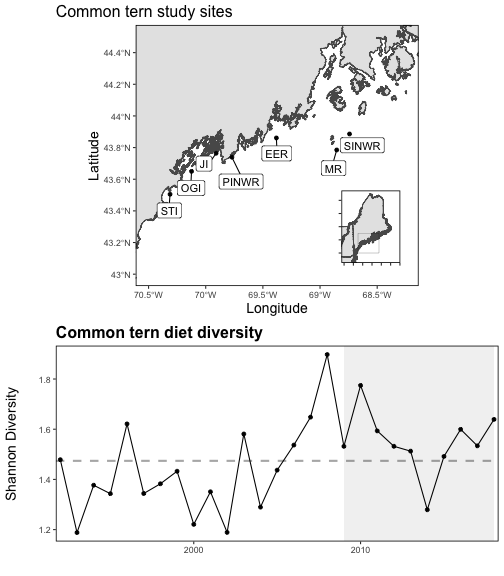
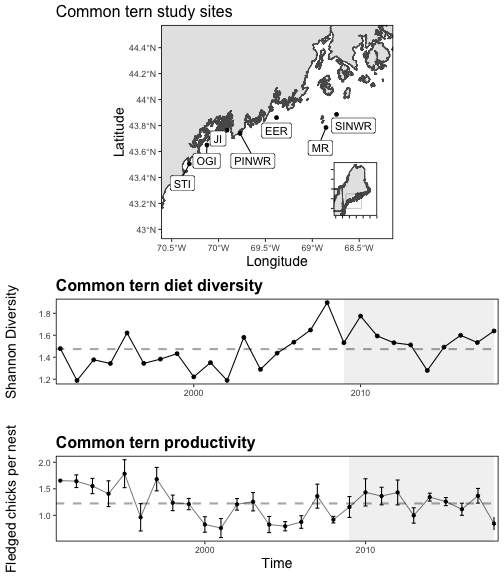
added tern productivity

diff --git a/State of the Ecosystem/EBFM Seminars/Audubon Seminar 2019-05-22/test.html b/State of the Ecosystem/EBFM Seminars/Audubon Seminar 2019-05-22/test.html
@@ -22,48 +22,17 @@ class: top, left
 
 
 
-## Zooplankton abundance and North Atlantic Right Whale range shifts
-
-&lt;img src="20190522_Audubon_Hardison_images/record-et-al.png" width="100%" style="display: block; margin: auto;" /&gt;
-
-*Record et al. 2019* examines the role of warming deepwater in western Gulf of Maine on *C. finmarchicus* and North Atlantic right whale
-
-**North Atlantic right whale distributions affected by climate driven changes in *C. finmarchicus* abundance in western Gulf of Maine**
-
----
-## Zooplankton abundance and North Atlantic Right Whale range shifts
+## Implications for protected species: Common tern diet
 
 .pull-left[
-**Western GOM**
-* Recent *C. finmarchicus* abundance in W. GOM has been highest ever in recent years
-  * Why? *C. finmarchicus* supplied by highly productive Maine Coastal Current can reproduce rapidly and mediate effects of warming.
-  * NARW + *C. finmarchicus* conditions remain favorable in W. GOM
+* Warmer waters affect vertical distribution of prey species
+  * Results in more generalist diet choices
+  
+* High diet diversity in past decade may be the result of decreases in preferred prey type (hake, sandlance)
+  * Butterfish appear in diet in warm years, are difficult to digest; may cause starvation
 ]
-
 .pull-right[
-&lt;img src="20190522_Audubon_Hardison_images/record-et-al-fig.png" width="100%" style="display: block; margin: auto;" /&gt;
-.image-cap[
-Significant abundance changes in *Calanus* shown in blue (negative) and red (positive). ([Record et al. 2019](https://cloudup.com/iFB8decQWOs))
-  ]
-]
-
-
----
-## Zooplankton abundance and North Atlantic Right Whale range shifts
-
-.pull-left[
-**Eastern GOM**
-* Deepwater warming contributes to high mortality of dormant copepods
-* More Gulf Stream influence in Gulf means less supply of copepods into GOM
-
-**The result? NARWs favor western GOM and Canadian waters for foraging.**
-]
-
-.pull-right[
-&lt;img src="20190522_Audubon_Hardison_images/record-et-al-fig.png" width="100%" style="display: block; margin: auto;" /&gt;
-.image-cap[
-Significant abundance changes in *Calanus* shown in blue (negative) and red (positive). ([Record et al. 2019](https://cloudup.com/iFB8decQWOs))
-  ]
+![](test_files/figure-html/tern-diet-diversity-1.png)&lt;!-- --&gt;
 ]
     </textarea>
 <style data-target="print-only">@media screen {.remark-slide-container{display:block;}.remark-slide-scaler{box-shadow:none;}}</style>

diff --git a/State of the Ecosystem/EBFM Seminars/Audubon Seminar 2019-05-22/20190522_Audubon_Hardison.html b/State of the Ecosystem/EBFM Seminars/Audubon Seminar 2019-05-22/20190522_Audubon_Hardison.html
@@ -649,7 +649,6 @@ A clear example of this occurring is the American lobster, whose populations hav
 .pull-right[
 ![](20190522_Audubon_Hardison_files/figure-html/tern-diet-diversity-1.png)&lt;!-- --&gt;
 ]
-
 ---
 ## Implications for protected species: North Atlantic Right Whale range shifts
 
